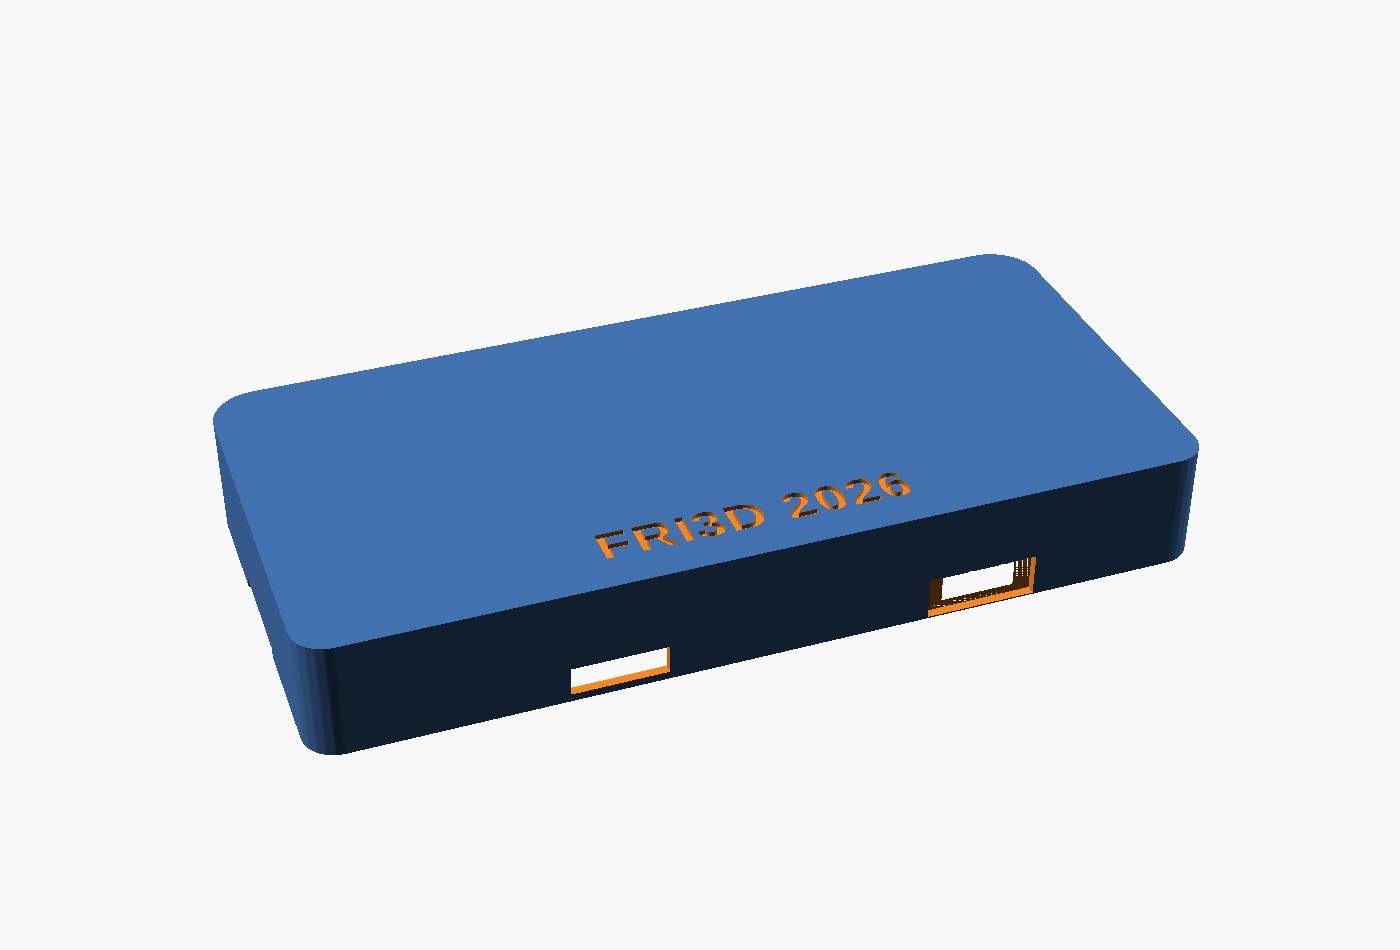
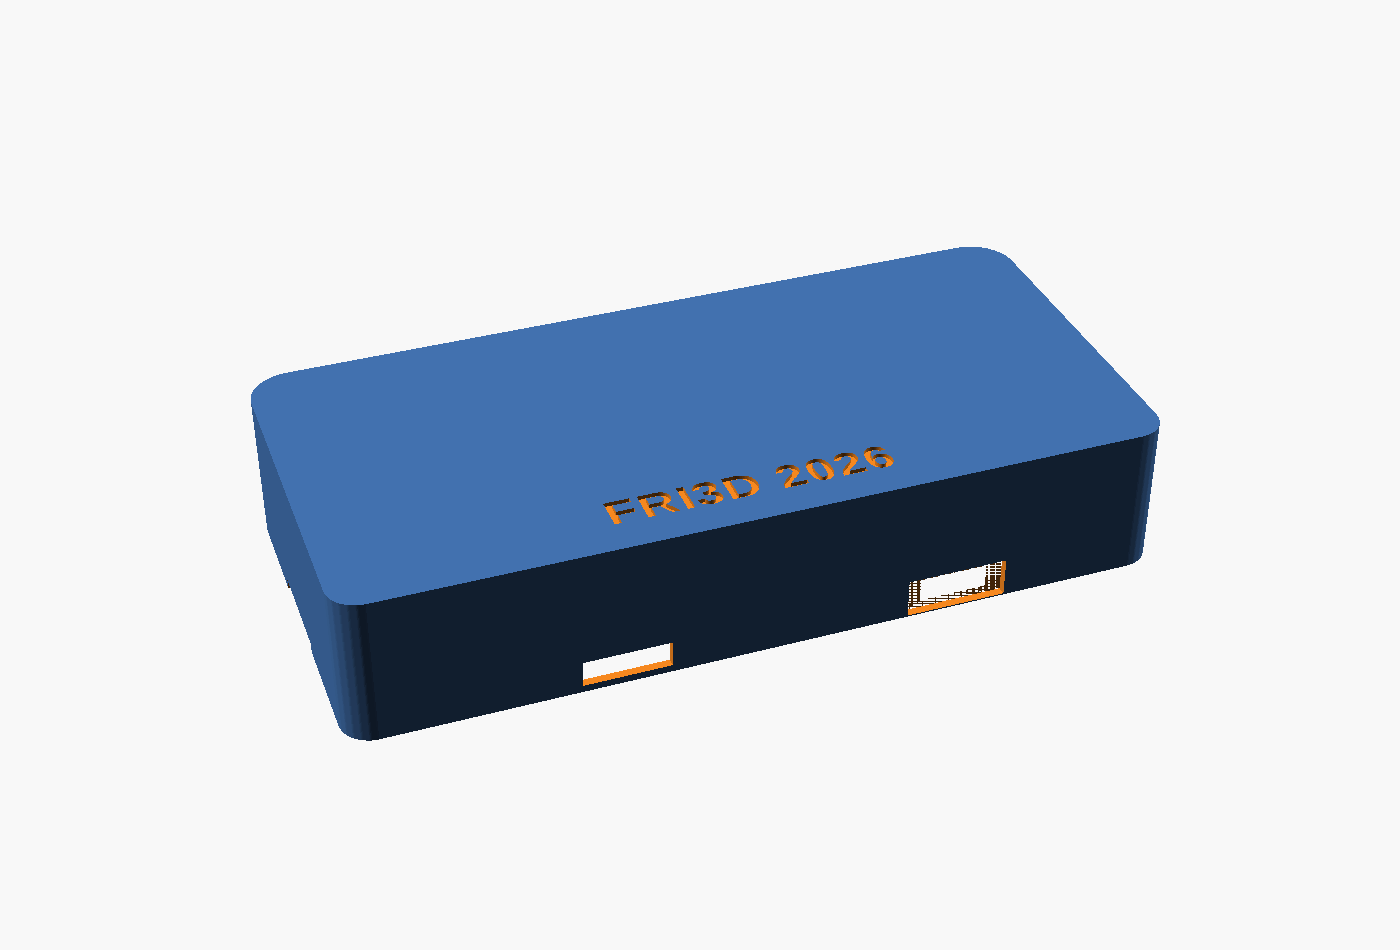
case: de beelden liepen achter op de STL's
Vijf van de tien renders waren nog van voor de laatste geometriewijziging: ze
toonden de ondiepe schaal van 22,9 mm met de draagkolommen er nog in, terwijl de
STL's al 29,1 mm diep zijn en die kolommen niet meer hebben. De massa van de
achterschaal in de tabel klopte om dezelfde reden niet, 29,4 cm3 in plaats van
32,9.

Om te voorkomen dat dit stil opnieuw gebeurt, bouwt build.sh nu ook alle tien de
beelden, met de camerastandpunten erin. Wie de bron aanpast en build.sh draait,
krijgt automatisch beelden die bij de STL's horen.

Claude-Session: https://claude.ai/code/session_017P2jdaHy96Y5jDfF7JbuJv

diff --git a/case/README.md b/case/README.md
@@ -159,7 +159,7 @@ page. `pdf/cover_sticker.svg` is the same file for a cutting plotter.
 
 | Part | Material | Orientation | Supports |
 |---|---|---|---|
-| `stl/01_back_shell.stl` | 29.4 cm3, about 36 g | back on the bed | no |
+| `stl/01_back_shell.stl` | 32.9 cm3, about 41 g | back on the bed | no |
 | `stl/02_front_plate.stl` | 12.0 cm3, about 15 g | top face on the bed | no |
 | `stl/03_dock.stl` | 60.8 cm3, about 75 g | flat, tray upwards | no |
 
@@ -205,8 +205,10 @@ pressure.
 
 ## Building it again
 
-`./build.sh` rebuilds the three STLs and both PDFs and runs the three interference checks.
-It needs `openscad`, and `python3` with `shapely` and `cairosvg`.
+`./build.sh` rebuilds the three STLs, both PDFs and all ten images in `images/`, and runs
+the three interference checks. It needs `openscad`, and `python3` with `shapely` and
+`cairosvg`. Run it after any change to the source, otherwise the pictures in this file
+quietly start describing an older design.
 
 Everything comes from one file: `fri3d_badge_2026_case.scad`. Set `part` to `"backshell"`,
 `"frontplate"`, `"dock"`, `"assembly"`, `"docked"`, `"exploded"`, `"plated"` or
